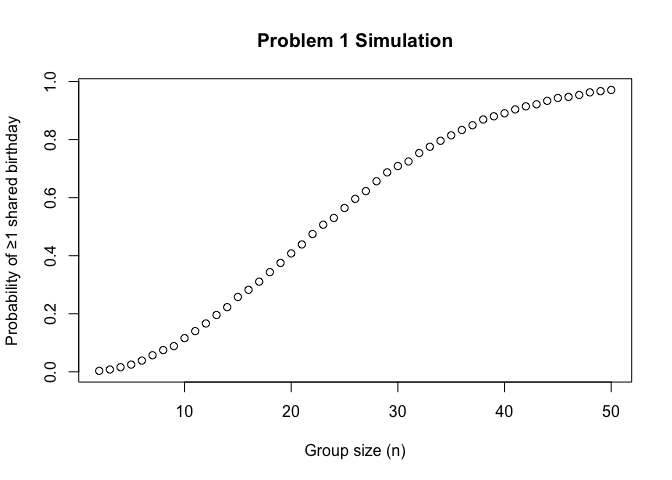
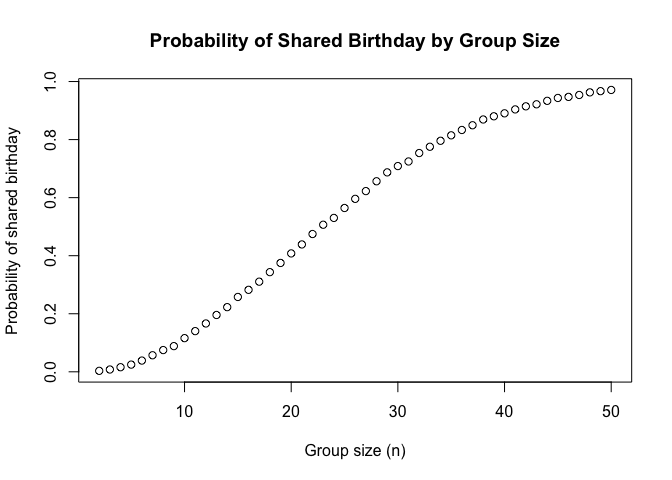
Adding comment to problem 1

Changed region(s): [[0.2188, 0.0625, 0.8438, 0.125], [0.0, 0.25, 0.0312, 0.7188]]

diff --git a/p8105_hw5_kg3006.md b/p8105_hw5_kg3006.md
@@ -5,4 +5,13 @@ Kevin Guzman
 
 ## Problem 1
 
-![](p8105_hw5_kg3006_files/figure-gfm/unnamed-chunk-1-1.png)<!-- -->
+The graph below demonstrates the probability that there is at least 1
+shared birthday in a group of individuals from a group of 2 people to 50
+simulated over 10,000 trials.
+![](p8105_hw5_kg3006_files/figure-gfm/unnamed-chunk-2-1.png)<!-- -->
+
+As noted in the graph. As the group sizes increase, the probabiliyt of a
+shared birthday also increases. Interestingly, even though there are 365
+possible birthdays. The probability of a shared birthday among a group
+of 25 people is already over 50% and that of a group of 50 people is
+nearly 100%!
